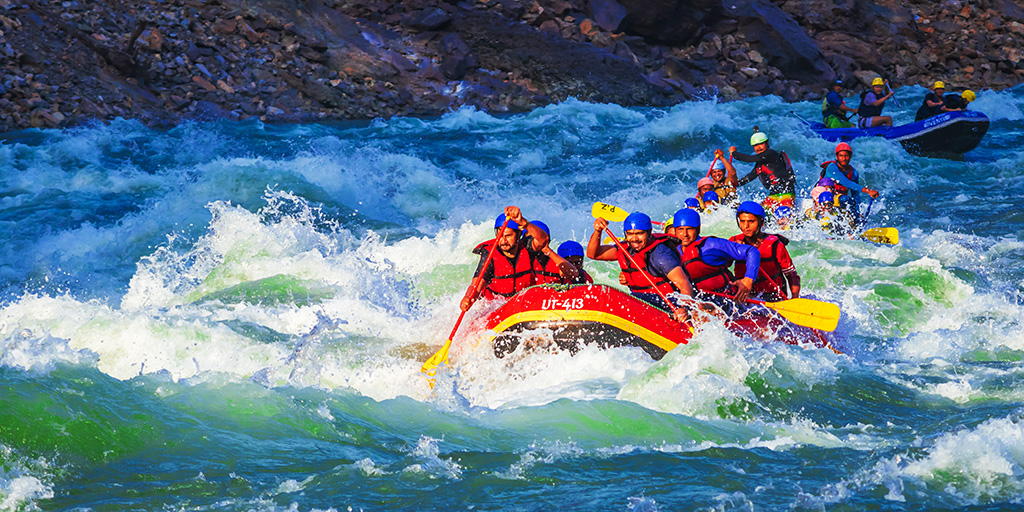
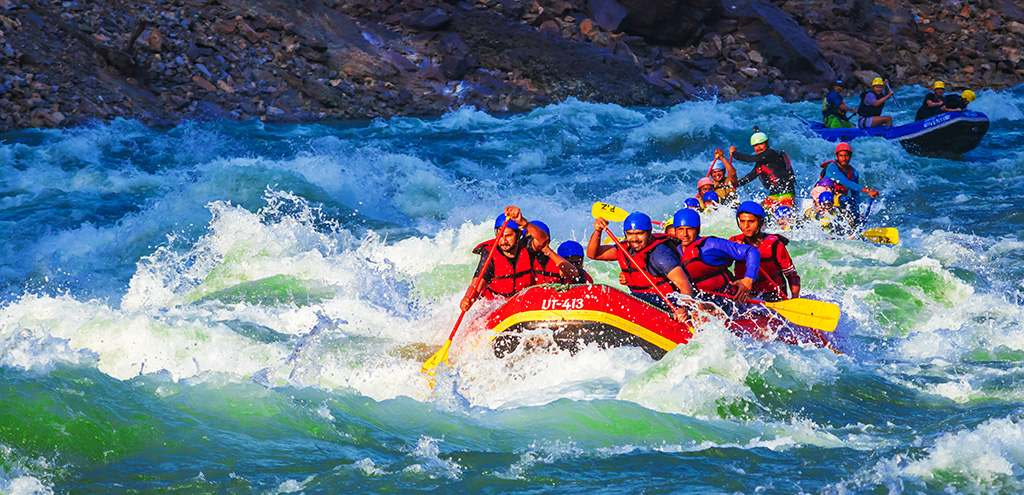
image optimized

diff --git a/wwr/about.html b/wwr/about.html
@@ -4,6 +4,8 @@
     <meta charset="UTF-8">
     <meta name="viewport" content="width=device-width, initial-scale=1.0">
     <title>Rafting site</title>
+    <meta name="description" content="Isaac Diaz Github Rafting site">
+    <meta name="author" content="Isaac Diaz">
     <link rel="stylesheet" href="Styles/Rafting.css">
     <link rel="preconnect" href="https://fonts.googleapis.com">
     <link rel="preconnect" href="https://fonts.gstatic.com" crossorigin>
@@ -13,10 +15,10 @@
     <header>
         <img src="Images/logo_rafting.png" alt="Rafting logo" width="150">
         <nav>
-            <a href="#">Index</a>
-            <a href="#">About us</a>
-            <a href="#">Trips</a>
-            <a href="#">Contact</a>
+            <a href="index.html">Index</a>
+            <a href="about.html">About us</a>
+            <a href="trips.html">Trips</a>
+            <a href="contact.html">Contact</a>
         </nav>
     </header>
     <main>
